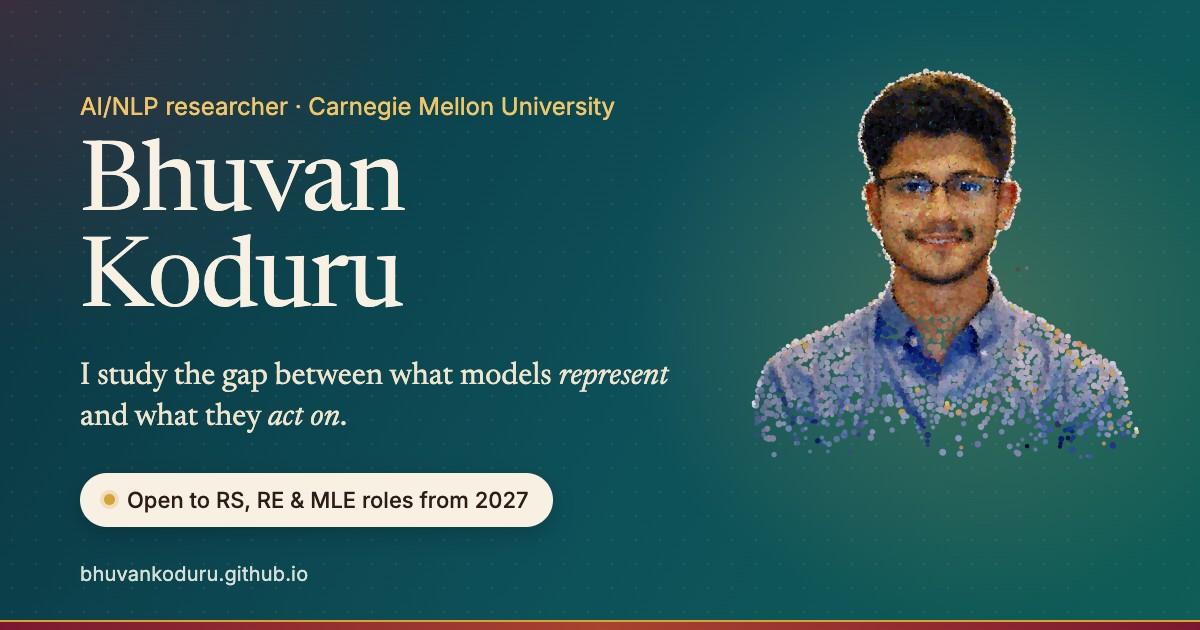
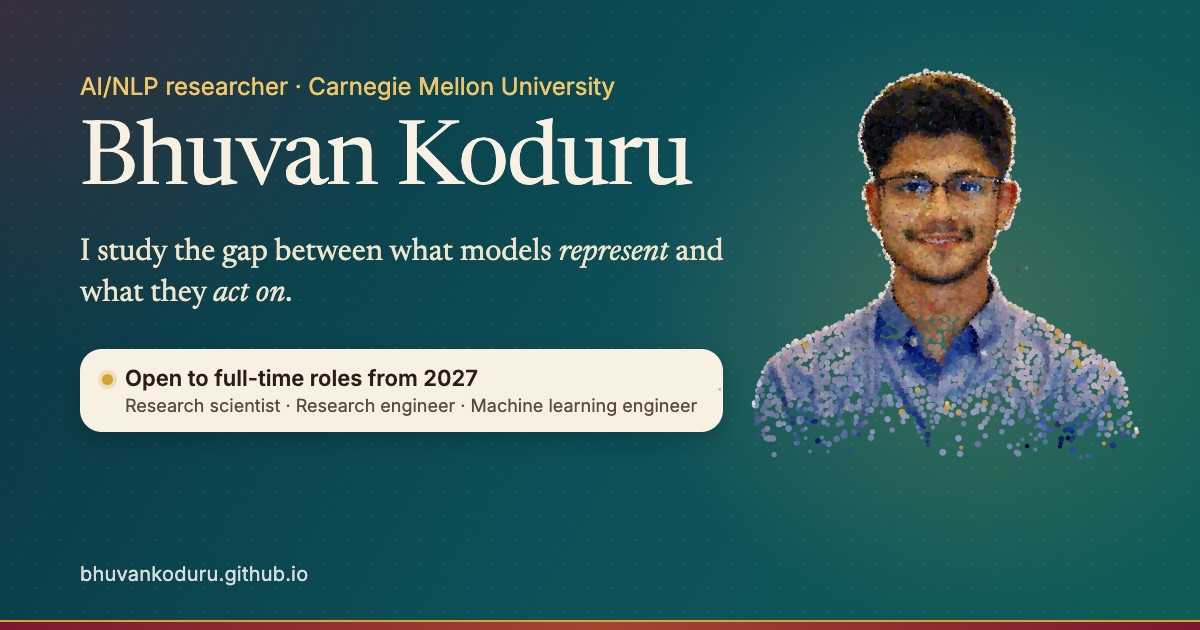
Spell out target roles in the hero pill and link-preview card
The pill becomes two lines: "Open to full-time roles from 2027" over
"Research scientist · Research engineer · Machine learning engineer".
The social card matches.

diff --git a/index.html b/index.html
@@ -23,7 +23,7 @@
     <link rel="preconnect" href="https://fonts.googleapis.com">
     <link rel="preconnect" href="https://fonts.gstatic.com" crossorigin>
     <link href="https://fonts.googleapis.com/css2?family=Inter:wght@400;500;600&family=Newsreader:ital,opsz,wght@0,6..72,400;0,6..72,500;1,6..72,400&display=swap" rel="stylesheet">
-    <link rel="stylesheet" href="assets/css/style.css?v=20261005h">
+    <link rel="stylesheet" href="assets/css/style.css?v=20261005i">
 </head>
 <body>
     <div class="masthead">
@@ -55,8 +55,12 @@
                 <p class="lede">I study the gap between what models <em>represent</em> and what they <em>act on</em>, across audio-language models, AI safety, self-evolving agents, and deception &amp; Theory of Mind.</p>
                 <p class="byline">M.S., Language Technologies Institute · Dec&nbsp;2026 · Pittsburgh</p>
                 <div class="actions">
-                    <a class="pill" href="mailto:bkoduru@andrew.cmu.edu" title="Research scientist, research engineer and machine learning engineer roles · email bkoduru@andrew.cmu.edu">
-                        <span class="pill-dot" aria-hidden="true"></span>Open to RS, RE &amp; MLE roles from 2027
+                    <a class="pill pill--roles" href="mailto:bkoduru@andrew.cmu.edu" title="Email bkoduru@andrew.cmu.edu">
+                        <span class="pill-dot" aria-hidden="true"></span>
+                        <span class="pill-text">
+                            <span class="pill-head">Open to full-time roles from 2027</span>
+                            <span class="pill-roles">Research scientist · Research engineer · Machine learning engineer</span>
+                        </span>
                     </a>
                     <span class="action-links">
                         <a class="chev" href="assets/Bhuvan_Koduru_Resume.pdf">CV</a>

diff --git a/assets/css/style.css b/assets/css/style.css
@@ -372,6 +372,35 @@ p + p {
   transform: translateY(-1px);
 }
 
+/* Two-line pill: availability on top, the roles spelled out beneath */
+.pill--roles {
+  align-items: flex-start;
+  gap: 12px;
+  padding: 12px 22px 12px 18px;
+  border-radius: 18px;
+  text-align: left;
+}
+
+.pill--roles .pill-dot {
+  margin-top: 7px;
+}
+
+.pill-text {
+  display: flex;
+  flex-direction: column;
+  gap: 2px;
+}
+
+.pill-head {
+  font-weight: 600;
+}
+
+.pill-roles {
+  font-size: 13.5px;
+  font-weight: 400;
+  color: #5c4a3f;
+}
+
 .pill-dot {
   width: 8px;
   height: 8px;

diff --git a/projects.html b/projects.html
@@ -21,7 +21,7 @@
     <link rel="preconnect" href="https://fonts.googleapis.com">
     <link rel="preconnect" href="https://fonts.gstatic.com" crossorigin>
     <link href="https://fonts.googleapis.com/css2?family=Inter:wght@400;500;600&family=Newsreader:ital,opsz,wght@0,6..72,400;0,6..72,500;1,6..72,400&display=swap" rel="stylesheet">
-    <link rel="stylesheet" href="assets/css/style.css?v=20261005h">
+    <link rel="stylesheet" href="assets/css/style.css?v=20261005i">
 </head>
 <body>
     <div class="masthead">

diff --git a/research.html b/research.html
@@ -21,7 +21,7 @@
     <link rel="preconnect" href="https://fonts.googleapis.com">
     <link rel="preconnect" href="https://fonts.gstatic.com" crossorigin>
     <link href="https://fonts.googleapis.com/css2?family=Inter:wght@400;500;600&family=Newsreader:ital,opsz,wght@0,6..72,400;0,6..72,500;1,6..72,400&display=swap" rel="stylesheet">
-    <link rel="stylesheet" href="assets/css/style.css?v=20261005h">
+    <link rel="stylesheet" href="assets/css/style.css?v=20261005i">
 </head>
 <body>
     <div class="masthead">
